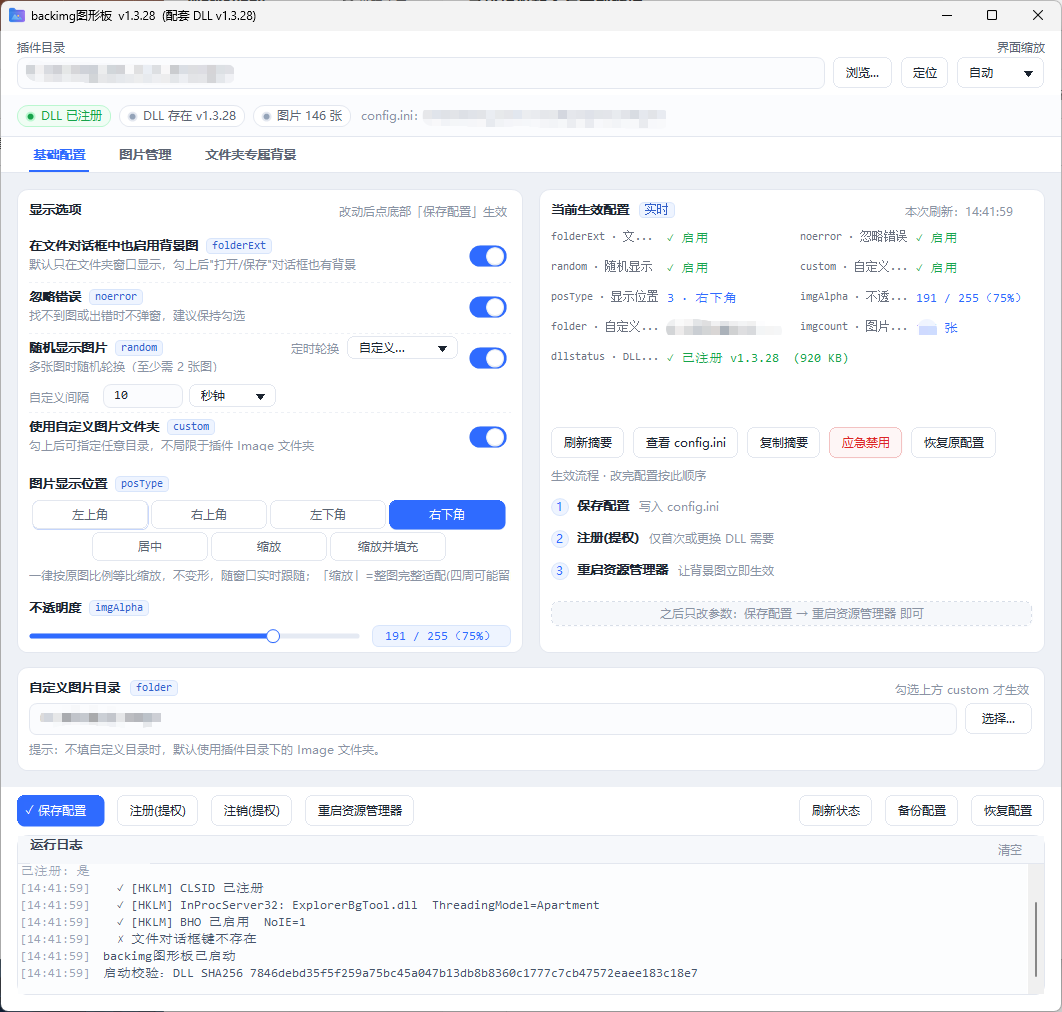
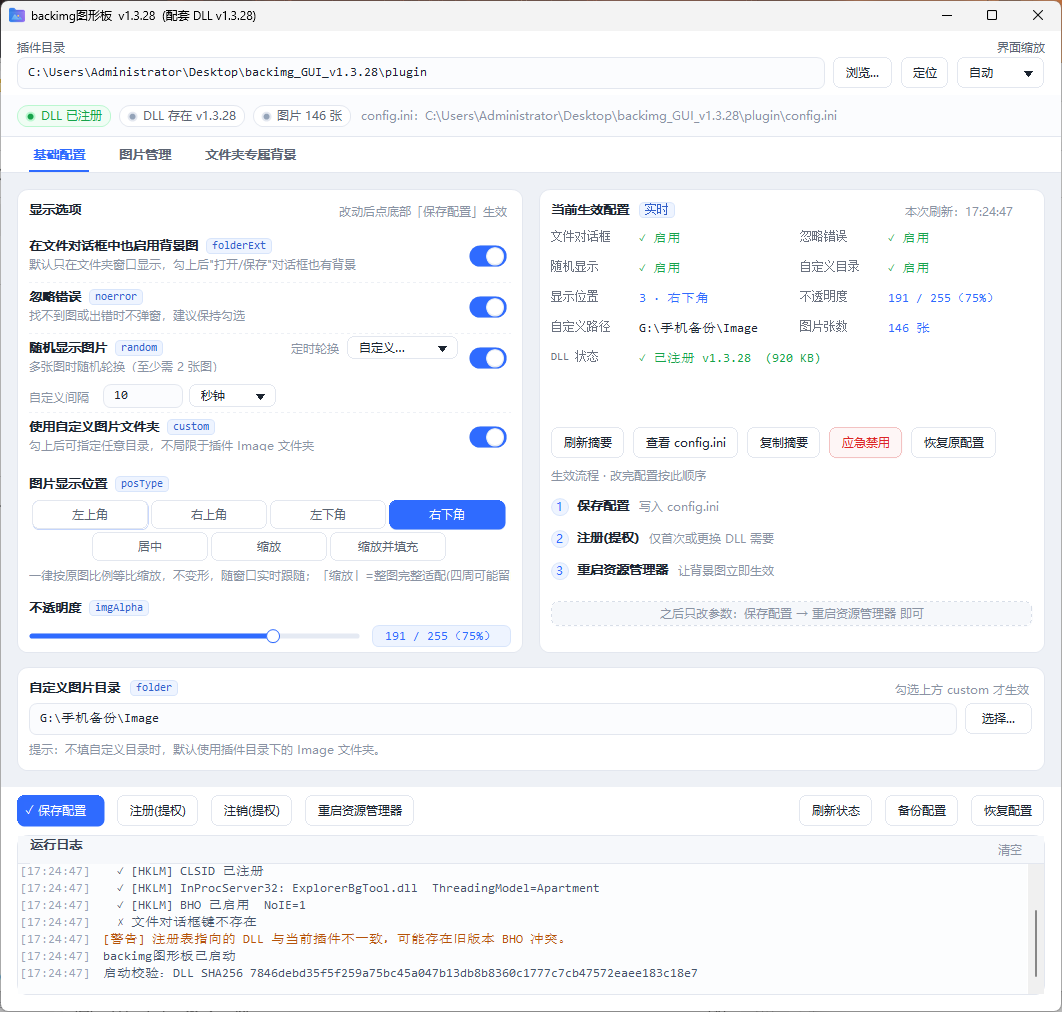
v1.3.28 refresh: smart column width, CN summary keys, dual screenshots
- shell/main.c: summary card keys now pure Chinese (ini prefixes removed,
  key column 108->80), image list smart column widths (size column fits
  content, name column auto-fits longest item capped to remaining width)
- shell changelog master: chapters 17 (v1.3.28 addendum) & 18 (final
  dual-version pre-release audit, zero warnings both builds)
- README: side-by-side CN/EN screenshots, downloads section
- docs: replace masked screenshot with full-res CN shot + new EN shot

diff --git a/shell/main.c b/shell/main.c
@@ -13,7 +13,7 @@
  *                可自由选到秒级；内部权威单位改为秒（randomVal），
  *                randomMin 仍兼容写入供旧版 DLL 使用
  *              - D2（用户实机 bug）：自定义图片目录指向程序目录之外
- *                （如 G://MyPics）时偶发不显示 —— DLL 侧加
+ *                （如 G:\手机备份\Image）时偶发不显示 —— DLL 侧加
  *                枚举瞬时失败重试 + 空列表定时自愈重载（详见 DLL 变更清单）
  *            配套 DLL 升级为 v1.3.25（rotateSec + 自愈重载）。
  *   v1.3.22：配套 DLL 升级为 v1.3.22 复审加固版（界面零改动）。本版外壳
@@ -2568,13 +2568,15 @@ static void build_basic_tab(HWND parent) {
     /* 摘要网格：宽度充足时前 6 项两两并排，否则全部单列
        UI-2：键名改自绘（超宽出省略号），键列 128；UI-8：值行比键行低 1px */
     const WCHAR *sum_keys[9] = {
-        L"folderExt · 文件对话框", L"noerror · 忽略错误", L"random · 随机显示",
-        L"custom · 自定义目录", L"posType · 显示位置", L"imgAlpha · 不透明度",
-        L"folder · 自定义路径", L"imgcount · 图片张数", L"dllstatus · DLL 状态"
+        L"文件对话框", L"忽略错误", L"随机显示",
+        L"自定义目录", L"显示位置", L"不透明度",
+        L"自定义路径", L"图片张数", L"DLL 状态"
     };
-    /* v1.3.3：键列 128→108（设计稿 .skey width 106px），省下的宽度给值列 */
+    /* v1.3.3：键列 128→108（设计稿 .skey width 106px）。
+     * 2026-11-04 增补（人类开发者提出）：键名去掉 ini 英文前缀改纯中文，
+     * 键列 108→80，宽度进一步让给值列——G:\手机备份 这类长路径能多显示一截 */
     int colw = (cardw - S(24) - S(16)) / 2;
-    int keyw2 = S(108);
+    int keyw2 = S(80);
     if (colw >= S(200)) {
         /* 设计稿：9 项两列网格；最后一项 dllstatus 值长，独占整行 */
         for (int i = 0; i < 9; i++) {
@@ -3561,6 +3563,26 @@ static void refresh_image_list(void) {
         ListView_SetItemText(g_app.hwndImgList, pos, 1, szbuf);
     }
     free(imgs);
+    /* 智能列宽（人类开发者 2026-11-04）：名称列按最长文件名自适应——
+     * 短名时大小列左移完整显示（无横向滚动条）；名称超长时名称列封顶为
+     * 可用宽度、横向滚动条接管。旧固定列宽未计入垂直滚动条占用的客户宽，
+     * 146 张图时大小列被右缘裁掉（11.1 MB 只剩 11.1 ME）。 */
+    {
+        RECT lrc; GetClientRect(g_app.hwndImgList, &lrc);
+        int clientw = lrc.right - lrc.left;
+        /* 大小列：自适应内容（"11.1 MB" 等），保底 60px */
+        SendMessageW(g_app.hwndImgList, LVM_SETCOLUMNWIDTH, 1, LVSCW_AUTOSIZE);
+        int sizew = (int)SendMessageW(g_app.hwndImgList, LVM_GETCOLUMNWIDTH, 1, 0);
+        if (sizew < pt_scaled(60)) sizew = pt_scaled(60);
+        SendMessageW(g_app.hwndImgList, LVM_SETCOLUMNWIDTH, 1, sizew);
+        /* 名称列：自适应最长项，封顶为剩余宽度 */
+        SendMessageW(g_app.hwndImgList, LVM_SETCOLUMNWIDTH, 0, LVSCW_AUTOSIZE);
+        int namew = (int)SendMessageW(g_app.hwndImgList, LVM_GETCOLUMNWIDTH, 0, 0);
+        int avail = clientw - sizew - pt_scaled(8);
+        if (namew > avail) namew = avail;
+        if (namew < pt_scaled(60)) namew = pt_scaled(60);
+        SendMessageW(g_app.hwndImgList, LVM_SETCOLUMNWIDTH, 0, namew);
+    }
 }
 
 /* 清空列表并释放每行挂在 lParam 上的 section 副本 */

diff --git a/README.md b/README.md
@@ -2,7 +2,20 @@
 
 给 Windows 文件资源管理器的文件夹窗口铺上自定义背景图——支持多图随机、秒/分钟级定时轮换、等比缩放实时跟随窗口、文件对话框铺图。
 
-![backimg 图形板主界面](docs/screenshot.png)
+| 中文界面（backimg 图形板） | English UI (backimg Panel) |
+|---|---|
+| ![backimg 图形板中文界面](docs/screenshot.png) | ![backimg Panel English UI](docs/screenshot-en.png) |
+
+## 下载（预编译包）
+
+到 [Releases · v1.3.28](https://github.com/vivaqqq/backimg-gui/releases/tag/v1.3.28) 下载，解压即用（含图形板 exe + DLL + 配置模板 + 说明）：
+
+| 包 | 界面语言 |
+|---|---|
+| `backimg-gui_v1.3.28.zip` | 中文 |
+| `backimg-gui_v1.3.28_english-ui.zip` | English |
+
+英文界面的源码在 [`english-ui`](https://github.com/vivaqqq/backimg-gui/tree/english-ui) 分支（`shell/` 目录）。
 
 > **📌 诚实声明**：这个仓库、所有源代码的修复与增强、以及把它开源上架的整个过程，**全部由 AI 完成**——主力是 WorkBuddy（GLM 大模型），修复与审计环节还用了千问、Kimi、DeepSeek、混元、豆包做多轮交叉审计。仓库主人**完全不懂代码**，是零代码用户，全程只负责提需求、验收和按下"发布"。源代码和程序都放在这里，MIT 协议随便用——**觉得不满意？欢迎自己拿回家改**，这正是开源的意义。
 >
